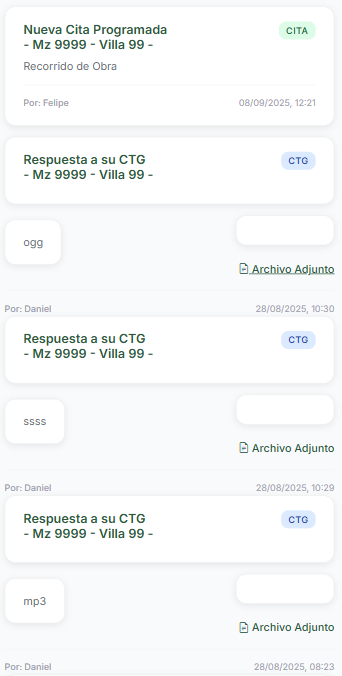
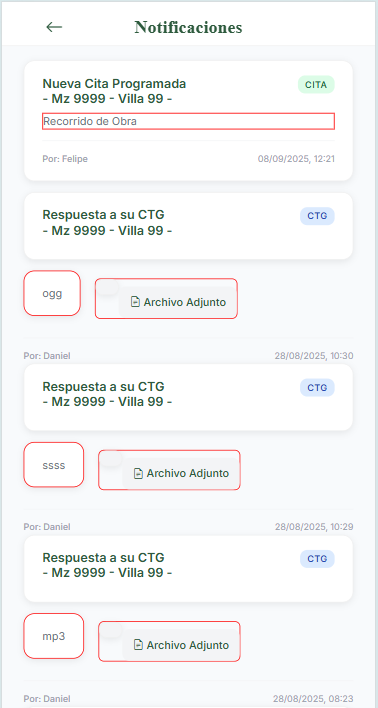
version1.2.8.9.7.8produccion-outlook

diff --git a/Front/assets/css/style_notifications.css b/Front/assets/css/style_notifications.css
@@ -132,7 +132,6 @@ body {
 
 .notification-body {
     display: flex;
-    justify-content: space-between;
     align-items: center;
     gap: 1rem;
     margin: 0.5rem 0;
@@ -144,12 +143,17 @@ body {
     color: #6b7280;
     line-height: 1.4;
     margin: 0; /* Reset margin */
-    flex: 1 1 70%;
+    flex-grow: 1;
     /* Fix for overflowing text in flexbox */
     min-width: 0;
     white-space: pre-wrap;
     word-wrap: break-word;
     overflow-wrap: break-word;
+    /* Override external styles */
+    background: transparent !important;
+    border: none !important;
+    padding: 0 !important;
+    box-shadow: none !important;
 }
 
 .notification-meta {
@@ -180,15 +184,20 @@ body {
     background: transparent;
     border-radius: 6px;
     border: none;
-    flex: 0 0 30%;
+    flex-shrink: 0;
     text-align: right;
 }
 
 .notification-attachment a {
+    display: inline-block;
+    background: #f3f4f6;
+    padding: 0.5rem 0.75rem;
+    border-radius: 8px;
     color: #2d5a3d;
     text-decoration: none;
     font-size: 0.75rem;
     font-weight: 500;
+    transition: background-color 0.2s ease;
 }
 
 .notification-attachment a:hover {
@@ -307,17 +316,11 @@ body {
 /* --- Attachment Image Styles --- */
 .notification-attachment-image {
   margin-top: 0; /* Reset margin */
-  flex: 0 0 30%;
+  flex-shrink: 0;
   text-align: right;
 }
 
 .notification-attachment-image img {
-  width: 50px;
-  height: 50px;
-  border-radius: 8px;
-  object-fit: cover;
-  border: 1px solid #e5e7eb;
-}chment-image img {
   width: 50px;
   height: 50px;
   border-radius: 8px;

diff --git a/Front/notificaciones.php b/Front/notificaciones.php
@@ -132,13 +132,8 @@ if (!token) {
                                             <img src="${notif.url_adjunto}" alt="Adjunto">
                                         </div>`;
                                     } else {
-                                        // Fallback for non-image files
-                                        return `
-                                        <div class="notification-attachment">
-                                            <a href="${notif.url_adjunto}" target="_blank" onclick="event.stopPropagation();">
-                                                <i class="bi bi-file-earmark-text"></i> Archivo Adjunto
-                                            </a>
-                                        </div>`;
+                                        // For non-image files, show nothing.
+                                        return '';
                                     }
                                 })()}
                             </div>
